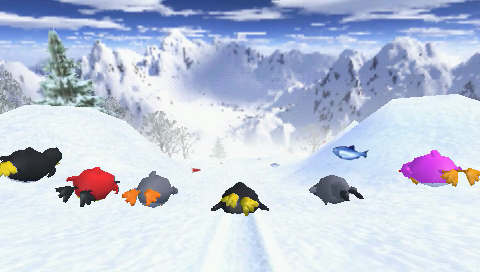
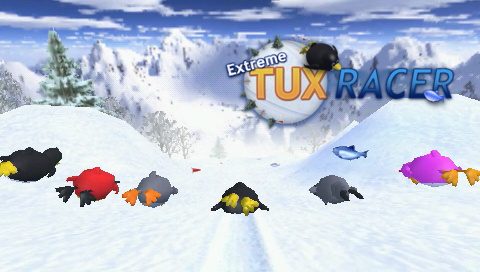
Version 1.0, and the game's title on its XMB background
The release script starts a new major when docs/release-major asks for one;
it says 1, so this build is published as v1.0.0. The XMB background (PIC1)
carries the game's title, top right, clear of the card and the clock.

Changed region(s): [[0.4688, 0.1176, 0.9688, 0.4706]]

diff --git a/tools/publish-release.py b/tools/publish-release.py
@@ -1,5 +1,8 @@
 #!/usr/bin/env python3
-"""Publish complete v0.x.0 releases with concise, delta-only release notes."""
+"""Publish complete vX.Y.0 releases with concise, delta-only release notes.
+
+The next minor version of the highest major, or a new major when the
+repository says so in docs/release-major (one number, e.g. "1")."""
 import json
 import os
 from pathlib import Path
@@ -21,19 +24,27 @@ def upload_assets(version, assets):
                 time.sleep(5 * (attempt + 1))
 
 
-def next_version(releases):
+def next_version(releases, major=0):
+    """The next vMAJOR.N.0 for the major the repository is at (0 unless
+    docs/release-major says otherwise; tags of other majors are left alone)."""
     versions = []
     published = []
     for release in releases:
-        match = re.fullmatch(r'v0\.(\d+)\.(\d+)', release['tag_name'])
-        if match:
-            version = (int(match[1]), int(match[2]), release['tag_name'])
+        match = re.fullmatch(r'v(\d+)\.(\d+)\.(\d+)', release['tag_name'])
+        if match and int(match[1]) == major:
+            version = (int(match[2]), int(match[3]), release['tag_name'])
             versions.append(version)
             if not release.get('draft', False):
                 published.append(version)
+    # The notes start from the last release of this major, or of the one before.
+    older = [r for r in releases if not r.get('draft', False)
+             and re.fullmatch(rf'v{major - 1}\.\d+\.\d+', r['tag_name'])] if major else []
+    previous = max(published)[2] if published else (
+        max(older, key=lambda r: tuple(map(int, r['tag_name'][1:].split('.'))))['tag_name'] if older else None)
+    if not versions:
+        return (f'v{major}.0.0' if major else 'v0.1.0'), previous
     # Reserve abandoned draft versions too, avoiding tag collisions.
-    minor = max(versions)[0] + 1 if versions else 1
-    return f'v0.{minor}.0', max(published)[2] if published else None
+    return f'v{major}.{max(versions)[0] + 1}.0', previous
 
 
 def notes(commit, previous):
@@ -106,7 +117,9 @@ def main():
     if existing:
         version = existing['tag_name']
     else:
-        version, previous = next_version(releases)
+        wanted = Path('docs/release-major')
+        major = int(wanted.read_text().strip()) if wanted.is_file() else 0
+        version, previous = next_version(releases, major)
         path = Path('release-notes.md')
         path.write_text(notes(commit, previous) + '\n' + marker + '\n', encoding='utf-8')
         subprocess.run(['gh', 'release', 'create', version, '--draft',

diff --git a/tools/test-release.py b/tools/test-release.py
@@ -21,6 +21,10 @@ class ReleaseTests(unittest.TestCase):
         self.assertEqual(publish.next_version(releases), ('v0.11.0', 'v0.10.2'))
         releases.append({'tag_name': 'v0.11.0', 'draft': True})
         self.assertEqual(publish.next_version(releases), ('v0.12.0', 'v0.10.2'))
+        # a new major when the repository asks for it, then minors of it
+        fresh = [r for r in releases if r['tag_name'] != 'v1.0.0']
+        self.assertEqual(publish.next_version(fresh, 1), ('v1.0.0', 'v0.10.2'))
+        self.assertEqual(publish.next_version(fresh + [{'tag_name': 'v1.0.0'}], 1), ('v1.1.0', 'v1.0.0'))
 
     def test_real_commit_subjects_without_body_dump(self):
         with tempfile.TemporaryDirectory() as directory:

diff --git a/docs/binary-distribution.md b/docs/binary-distribution.md
@@ -6,7 +6,7 @@ Die CI baut jeden Push auf `main`, Pull Requests und manuell ausgelöste Läufe.
 - `sources.tar.gz`: vollständige Spielquellen des gebauten Commits, Bibliotheksquellen, PSP-Patches/Buildrezepte, SDK-/Laufzeitquellen und Buildnachweise.
 - `SHA256SUMS`: Prüfsummen beider Pakete.
 
-Jeder erfolgreiche Push oder manuelle Build auf `main` veröffentlicht diese Dateien gemeinsam als nächstes GitHub-Release `v0.x.0` (z. B. `v0.3.0`, danach `v0.4.0`). Titel und Tag entsprechen der Version; der Tag verweist auf den tatsächlich gebauten Commit. Es gibt ausschließlich CI-Releases; ein manuell gepushter Versions-Tag startet keinen zusätzlichen Build. Pull Requests erzeugen nur Test-Artefakte. Laufende Builds werden bei weiteren Pushes nicht abgebrochen, damit die Veröffentlichung fertig werden kann. Normale CI-Artefakte bleiben 30 Tage verfügbar; Quell- und Spielpaket haben dieselbe Aufbewahrung. Beim Weitergeben beide Pakete zusammen behalten. Die Quellbeigabe enthält auch die Lizenztexte von PSPSDK, Newlib und GCC einschließlich dessen Runtime Library Exception.
+Jeder erfolgreiche Push oder manuelle Build auf `main` veröffentlicht diese Dateien gemeinsam als nächstes GitHub-Release `vX.Y.0`: die nächste Nebenversion der Hauptversion, die in `docs/release-major` steht (seit Version 1.0 `1`, also `v1.0.0`, danach `v1.1.0`). Titel und Tag entsprechen der Version; der Tag verweist auf den tatsächlich gebauten Commit. Es gibt ausschließlich CI-Releases; ein manuell gepushter Versions-Tag startet keinen zusätzlichen Build. Pull Requests erzeugen nur Test-Artefakte. Laufende Builds werden bei weiteren Pushes nicht abgebrochen, damit die Veröffentlichung fertig werden kann. Normale CI-Artefakte bleiben 30 Tage verfügbar; Quell- und Spielpaket haben dieselbe Aufbewahrung. Beim Weitergeben beide Pakete zusammen behalten. Die Quellbeigabe enthält auch die Lizenztexte von PSPSDK, Newlib und GCC einschließlich dessen Runtime Library Exception.
 
 ## Release-Beschreibung und Reihenfolge
 

diff --git a/docs/release-notes.md b/docs/release-notes.md
@@ -1,3 +1,5 @@
+Version 1.0 — Extreme Tux Racer on the PSP, tested over a thousand times on a real one.
+
 The release in five lines:
 
 - 🐧 Race against one to five computer penguins — in Practice and in events, on the PSP only.
